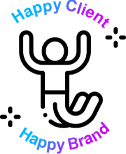
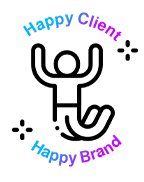
fixed our process img

diff --git a/index.html b/index.html
@@ -502,7 +502,7 @@
               <div class="single_cover-box">
                 <div class="icon">
                   <img
-                    style="width: 110px; height: 98px"
+                    style="width: 110px; height: 130px"
                     src="assets/images/small-img8.png"
                     alt=""
                   />
